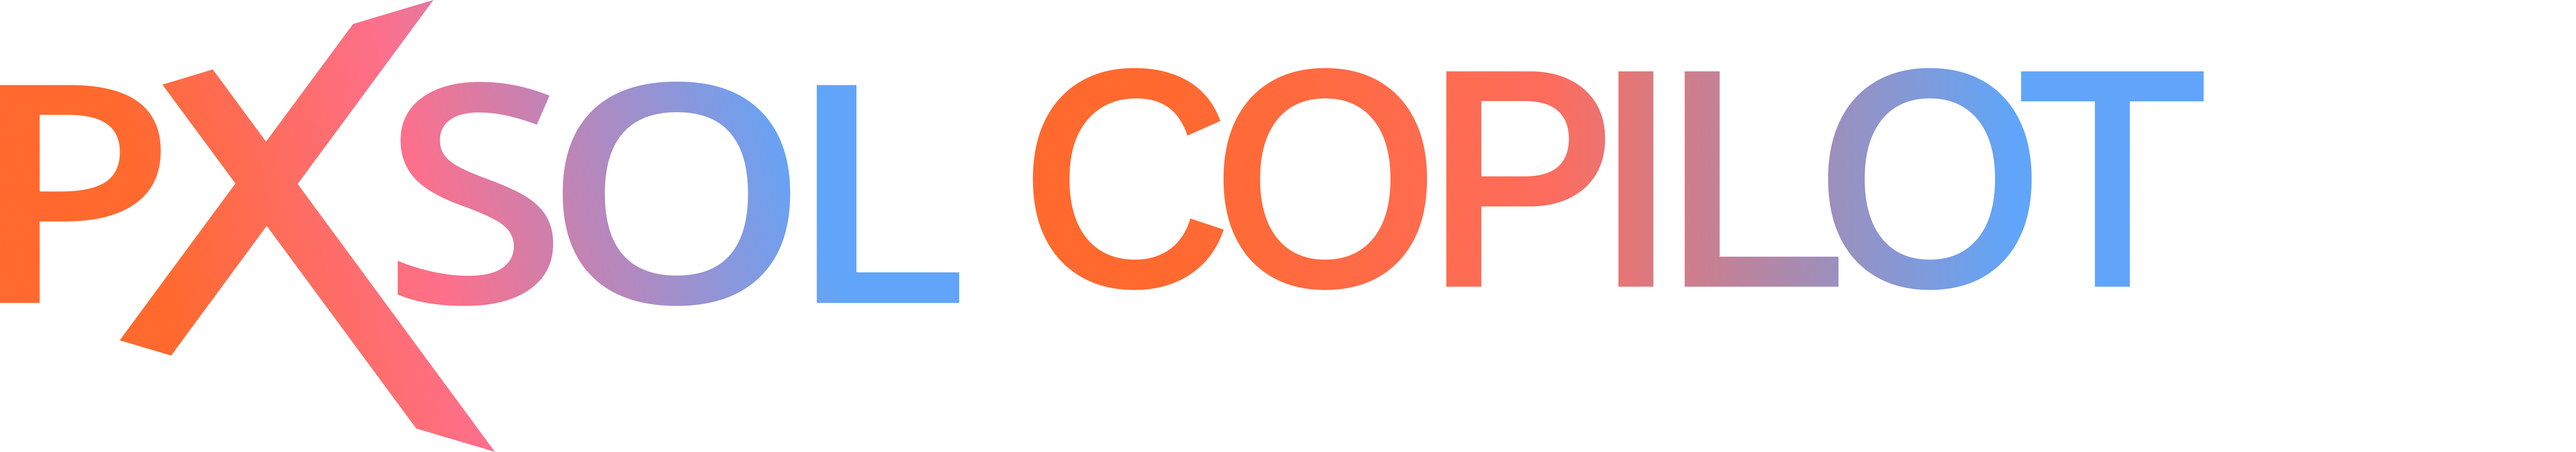
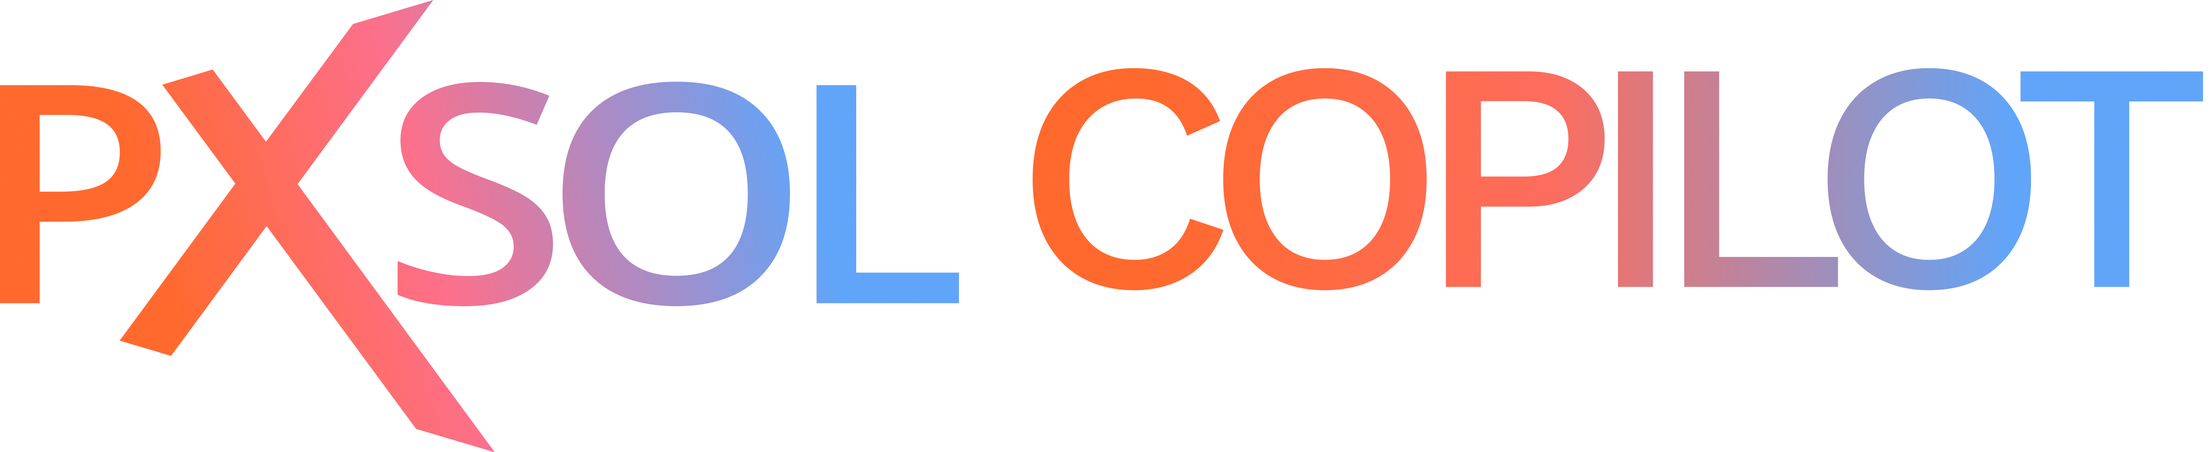
se trabaja en cost section

Changed region(s): [[0.0311, 0.0, 1.0, 0.9973]]

diff --git a/src/components/CostSection/CostSection.jsx b/src/components/CostSection/CostSection.jsx
@@ -1,0 +1,48 @@
+import "./CostSection.scss";
+
+
+export default function CostSection() {
+  return (
+<section class="costo-oculto">
+  <div class="costo-oculto__inner">
+
+    <h2 class="costo-oculto__title">
+      <span>El Costo Oculto</span><br />
+      de la<br />
+      Dependencia
+    </h2>
+
+    <div class="costo-oculto__content">
+
+      <div class="costo-oculto__texto">
+        <p>
+          En la industria hotelera, cada minuto que un recepcionista pasa intentando descifrar el software es un minuto perdido en atención al huésped. Cada ticket de soporte rompe el flujo de trabajo y genera dependencia innecesaria.
+        </p>
+
+        <p>
+          <strong>El modelo reactivo de soporte está obsoleto.</strong><br />
+          Presentamos una nueva era de asistencia proactiva donde la fricción desaparece y la autonomía florece.
+        </p>
+      </div>
+
+      <div class="costo-oculto__stats">
+        <div class="stat">
+          <h3>85%*</h3>
+          <p class="stat__title">Consultas evitables</p>
+          <p class="stat__desc">Son dudas de “cómo hacer” que pueden resolverse al instante</p>
+        </div>
+
+        <div class="stat">
+          <h3>70%</h3>
+          <p class="stat__title">Reducción de tiempo</p>
+          <p class="stat__desc">En capacitación de nuevos empleados</p>
+        </div>
+      </div>
+
+    </div>
+
+  </div>
+</section>
+
+  );
+}

diff --git a/src/components/CostSection/CostSection.scss b/src/components/CostSection/CostSection.scss
@@ -1,0 +1,76 @@
+.costo-oculto {
+  width: 100%;
+  padding: 100px 0;
+  background: #000;
+  color: #fff;
+
+  &__inner {
+    max-width: 1100px;
+    margin: 0 auto;
+    padding: 0 20px;
+  }
+
+  &__title {
+    font-size: 9em;
+    font-weight: 800;
+    line-height: 1.05;
+    margin-bottom: 60px;
+
+    span {
+      background: linear-gradient(90deg, #ff6a33, #ff5db1, #5c8dff);
+      background-clip: text;
+      color: transparent;
+    }
+
+    @media (max-width: 768px) {
+      font-size: 48px;
+    }
+  }
+
+  &__content {
+    display: flex;
+    justify-content: space-between;
+    align-items: flex-start;
+    gap: 40px;
+
+    @media (max-width: 900px) {
+      flex-direction: column;
+    }
+  }
+
+  &__texto {
+    max-width: 480px;
+    font-size: 18px;
+    line-height: 1.6;
+    letter-spacing: 0.02em;
+  }
+
+  &__stats {
+    display: flex;
+    gap: 60px;
+
+    @media (max-width: 900px) {
+      gap: 30px;
+      flex-direction: column;
+    }
+
+    .stat {
+      h3 {
+        font-size: 59px;
+        font-weight: 700;
+        margin-bottom: 10px;
+      }
+
+      .stat__title {
+        font-size: 23px;
+        font-weight: 600;
+        margin-bottom: 5px;
+      }
+
+      .stat__desc {
+        font-size: 18px;
+        opacity: 0.8;
+      }
+    }
+  }
+}

diff --git a/src/components/Hero/Hero.scss b/src/components/Hero/Hero.scss
@@ -19,7 +19,7 @@
   }
 
   &__aihub {
-    width: 130px;
+    width: 166px;
     margin-bottom: 20px;
 
     @media (max-width: 768px) {
@@ -28,7 +28,7 @@
   }
 
   &__pxcopilot {
-    width: 350px;
+    width: 650px;
     margin-bottom: 30px;
 
     @media (max-width: 768px) {
@@ -37,11 +37,12 @@
   }
 
   &__title {
-    font-size: 3rem;
+    font-size: 5.9rem;
     font-weight: 700;
     line-height: 1.1;
     color: #fff;
     margin-bottom: 50px;
+    text-wrap: balance;
 
     @media (max-width: 768px) {
       font-size: 2rem;
@@ -59,7 +60,6 @@
 
   &__iframe-wrapper {
     width: 100%;
-    max-width: 900px;
     border-radius: 18px;
     overflow: hidden;
     border: 1px solid rgba(255, 255, 255, 0.12);

diff --git a/src/App.jsx b/src/App.jsx
@@ -1,6 +1,7 @@
 
 import Hero from './components/Hero/Hero.jsx'
 import './App.css'
+import CostSection from './components/CostSection/CostSection.jsx'
 
 function App() {
 
@@ -8,6 +9,7 @@ function App() {
   return (
     <>
       <Hero />
+      <CostSection />
     </>
   )
 }
